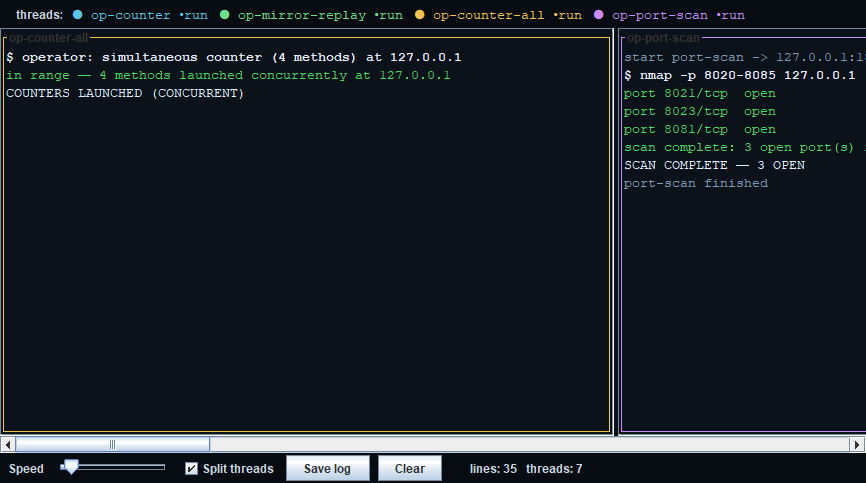
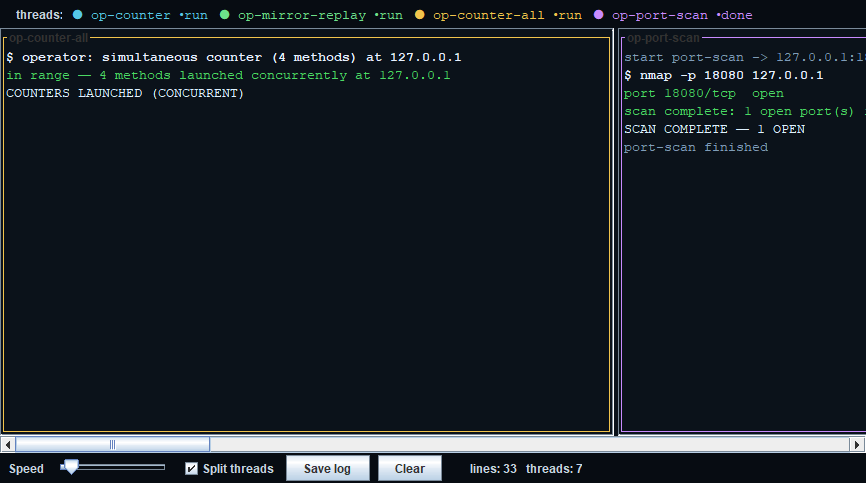
fix(specter): scans follow the configured ports (B-21)
The recon and mirror scans were hard-coded to 8020-8085. Moving any port
(the setup guide suggests it when 8080 is busy) made them miss, and on
one laptop Specter's own recon covered 8080, its own counter-watch:
"SCAN COMPLETE - 4 OPEN" and a false INCOMING COUNTER-ATTACK before any
counter was launched.

- PortScanAttack takes an explicit port list (nmap-style "-p 8021,8023,
  8081", or "a-b" for a contiguous range) and exposes ports().
- New specter.Campaigns builds the Specter campaigns from LabConfig, out
  of the Swing class; the recon (and the full campaign's scan) probes
  exactly the configured decoy ports, which on one laptop can never
  include the counter-watch port.
- MirrorCounterStrategy(counterWatchPort): counter-scans probe only the
  configured counter-watch port, the narrowest counter that reaches it;
  ConsoleMain passes config.counterWatchPort().

Tests (all 4 failed before): ScanPortsTest - default recon is
8021/8023/8081 and excludes the counter-watch; moved ports are followed;
mirror / probe / full-counter scans hit only the configured counter-watch
port; over real sockets the recon finds 3 OPEN and never connects to the
counter-watch listener. Full suite 145 green 3/3; GUI dry run 27/27, its
counter scan now reaches the dry run's :18080 counter-watch (1 OPEN).
Regenerated the three figures that show a scan (recon, concurrent,
counter split).

Changed region(s): [[0.7171, 0.1242, 0.9977, 0.4037], [0.8418, 0.0311, 0.873, 0.0621]]

diff --git a/src/test/java/com/mirage/ScanPortsTest.java b/src/test/java/com/mirage/ScanPortsTest.java
@@ -1,0 +1,101 @@
+package com.mirage;
+
+import com.mirage.common.Classification;
+import com.mirage.common.LabConfig;
+import com.mirage.common.Severity;
+import com.mirage.console.MirrorCounterStrategy;
+import com.mirage.specter.AttackStrategy;
+import com.mirage.specter.Campaign;
+import com.mirage.specter.Campaigns;
+import com.mirage.specter.PortScanAttack;
+import com.mirage.specter.Target;
+import org.junit.jupiter.api.Test;
+
+import java.io.IOException;
+import java.net.ServerSocket;
+import java.net.SocketTimeoutException;
+import java.util.ArrayList;
+import java.util.List;
+import java.util.Map;
+
+import static org.junit.jupiter.api.Assertions.*;
+
+/**
+ * B-21: the recon and mirror scans were hard-coded to 8020-8085. Moving any port (the setup
+ * guide suggests it when 8080 is busy) made the scans miss, and on one laptop Specter's own
+ * recon covered 8080, its own counter-watch: "SCAN COMPLETE — 4 OPEN" and a false
+ * "INCOMING COUNTER-ATTACK" before any counter was launched.
+ */
+class ScanPortsTest {
+
+    private static PortScanAttack scanIn(Campaign campaign) {
+        for (AttackStrategy s : campaign.strategies()) {
+            if (s instanceof PortScanAttack scan) {
+                return scan;
+            }
+        }
+        throw new AssertionError("no port scan in " + campaign.name());
+    }
+
+    @Test
+    void reconScansTheConfiguredDecoysAndNotTheLocalCounterWatch() {
+        LabConfig defaults = LabConfig.defaults();
+        List<Integer> ports = scanIn(Campaigns.recon(defaults)).ports();
+        assertEquals(List.of(8021, 8023, 8081), ports);
+        assertFalse(ports.contains(defaults.counterWatchPort()), "one laptop: never Specter's own counter-watch");
+        assertEquals(ports, scanIn(Campaigns.forChoice("Full campaign", defaults)).ports(),
+                "the full campaign scans the same ports");
+    }
+
+    @Test
+    void movedPortsAreFollowed() {
+        LabConfig moved = LabConfig.from(Map.of("decoy.http.port", "9081", "decoy.ftp.port", "9021",
+                "decoy.telnet.port", "9023", "counterwatch.port", "9080"));
+        assertEquals(List.of(9021, 9023, 9081), scanIn(Campaigns.recon(moved)).ports());
+    }
+
+    @Test
+    void mirrorScansReachTheConfiguredCounterWatchOnly() {
+        MirrorCounterStrategy mirror = new MirrorCounterStrategy(9080);
+        Campaign scanBack = mirror.counterFor(new Classification("scan", "T1046", Severity.MEDIUM)).orElseThrow();
+        assertEquals(List.of(9080), scanIn(scanBack).ports());
+        Campaign probe = mirror.counterFor(new Classification("bait", "T1485", Severity.CRITICAL)).orElseThrow();
+        assertEquals(List.of(9080), scanIn(probe).ports());
+        assertEquals(List.of(9080), scanIn(mirror.fullCounter()).ports());
+    }
+
+    /** The one-laptop layout over real sockets: 3 decoys open, the counter-watch next to them untouched. */
+    @Test
+    void oneLaptopReconFindsTheThreeDecoysAndLeavesTheCounterWatchAlone() throws Exception {
+        List<ServerSocket> decoys = new ArrayList<>();
+        try (ServerSocket counterWatch = new ServerSocket(0)) {
+            for (int i = 0; i < 3; i++) {
+                decoys.add(new ServerSocket(0));
+            }
+            LabConfig config = LabConfig.from(Map.of(
+                    "decoy.http.port", String.valueOf(decoys.get(0).getLocalPort()),
+                    "decoy.ftp.port", String.valueOf(decoys.get(1).getLocalPort()),
+                    "decoy.telnet.port", String.valueOf(decoys.get(2).getLocalPort()),
+                    "counterwatch.port", String.valueOf(counterWatch.getLocalPort())));
+            List<String> lines = new ArrayList<>();
+            scanIn(Campaigns.recon(config)).run(new Target("127.0.0.1", 0), (level, text) -> lines.add(text));
+
+            assertTrue(lines.contains("SCAN COMPLETE — 3 OPEN"), lines.toString());
+            counterWatch.setSoTimeout(200);
+            assertThrows(SocketTimeoutException.class, counterWatch::accept,
+                    "Specter's recon must not touch its own counter-watch");
+        } finally {
+            for (ServerSocket s : decoys) {
+                closeQuietly(s);
+            }
+        }
+    }
+
+    private static void closeQuietly(ServerSocket s) {
+        try {
+            s.close();
+        } catch (IOException e) {
+            // ignore
+        }
+    }
+}

diff --git a/src/main/java/com/mirage/console/MirrorCounterStrategy.java b/src/main/java/com/mirage/console/MirrorCounterStrategy.java
@@ -1,6 +1,7 @@
 package com.mirage.console;
 
 import com.mirage.common.Classification;
+import com.mirage.common.LabConfig;
 import com.mirage.specter.BruteForceAttack;
 import com.mirage.specter.Campaign;
 import com.mirage.specter.HoneytokenReplayAttack;
@@ -17,13 +18,28 @@ import java.util.Optional;
  * campaign; it never touches the network. {@link CounterOffensive} runs the chosen
  * campaign through {@link com.mirage.specter.Attacker}, which checks ScopeGuard
  * first, so a counter can never reach a host outside the lab range.
+ *
+ * <p>The counter-scans probe only the configured counter-watch port (B-21): the one port
+ * the lab knows is listening on the attacker's side, and the narrowest counter that still
+ * reaches it, whatever the ports are set to.
  */
 public final class MirrorCounterStrategy implements CounterStrategy {
+
+    private final int counterWatchPort;
+
+    /** With the default counter-watch port. */
+    public MirrorCounterStrategy() {
+        this(LabConfig.defaults().counterWatchPort());
+    }
+
+    public MirrorCounterStrategy(int counterWatchPort) {
+        this.counterWatchPort = counterWatchPort;
+    }
 
     @Override
     public Optional<Campaign> counterFor(Classification technique) {
         return Optional.of(switch (technique.attackTechnique()) {
-            case "T1046" -> new Campaign("mirror-scan", List.of(new PortScanAttack(8020, 8085)));
+            case "T1046" -> new Campaign("mirror-scan", List.of(scan()));
             case "T1110" -> new Campaign("mirror-brute", List.of(
                     new BruteForceAttack(List.of("123456", "password", "admin", "letmein", "root"))));
             case "T1110.003" -> new Campaign("mirror-spray", List.of(
@@ -31,17 +47,21 @@ public final class MirrorCounterStrategy implements CounterStrategy {
             case "T1078" -> new Campaign("mirror-replay", List.of(
                     new HoneytokenReplayAttack("svc_backup:S3cr3tBackup!")));
             // T1021 lateral movement, T1485 bait/ransomware, and anything else:
-            // no like-for-like reply, so fall back to mapping the source's own attack surface.
-            default -> new Campaign("counter-probe", List.of(new PortScanAttack(8020, 8085)));
+            // no like-for-like reply, so fall back to probing the source's counter-watch.
+            default -> new Campaign("counter-probe", List.of(scan()));
         });
     }
 
     @Override
     public Campaign fullCounter() {
         return new Campaign("full-counter", List.of(
-                new PortScanAttack(8020, 8085),
+                scan(),
                 new BruteForceAttack(List.of("123456", "password", "admin", "letmein", "root")),
                 new PasswordSprayAttack(List.of("admin", "root", "user", "test"), "Password123!"),
                 new HoneytokenReplayAttack("svc_backup:S3cr3tBackup!")));
+    }
+
+    private PortScanAttack scan() {
+        return new PortScanAttack(List.of(counterWatchPort));
     }
 }

diff --git a/src/main/java/com/mirage/specter/PortScanAttack.java b/src/main/java/com/mirage/specter/PortScanAttack.java
@@ -5,23 +5,41 @@ import com.mirage.common.trace.TraceLevel;
 import java.io.IOException;
 import java.net.InetSocketAddress;
 import java.net.Socket;
+import java.util.Collection;
+import java.util.List;
+import java.util.stream.Collectors;
+import java.util.stream.IntStream;
 
-/** Sweeps a range of ports on the target, touching whichever decoys are listening. */
+/** Probes a set of ports on the target, touching whichever decoys are listening. */
 public final class PortScanAttack implements AttackStrategy {
 
-    private final int startPort;
-    private final int endPort;
+    private final List<Integer> ports;
 
+    /** Every port from {@code startPort} to {@code endPort}, inclusive. */
     public PortScanAttack(int startPort, int endPort) {
-        this.startPort = startPort;
-        this.endPort = endPort;
+        this(IntStream.rangeClosed(startPort, endPort).boxed().toList());
+    }
+
+    /** Exactly these ports (sorted, duplicates dropped). B-21: built from the configured ports. */
+    public PortScanAttack(Collection<Integer> ports) {
+        List<Integer> sorted = ports.stream().distinct().sorted().toList();
+        if (sorted.isEmpty() || sorted.get(0) < 1 || sorted.get(sorted.size() - 1) > 65535) {
+            throw new IllegalArgumentException("ports must be 1-65535 and not empty: " + ports);
+        }
+        this.ports = sorted;
+    }
+
+    /** The ports this scan probes, in order. */
+    public List<Integer> ports() {
+        return ports;
     }
 
     @Override
     public void run(Target target, AttackTrace trace) {
-        trace.line(TraceLevel.COMMAND, "nmap -p " + startPort + "-" + endPort + " " + target.host());
+        String spec = spec();
+        trace.line(TraceLevel.COMMAND, "nmap -p " + spec + " " + target.host());
         int open = 0;
-        for (int port = startPort; port <= endPort; port++) {
+        for (int port : ports) {
             try (Socket socket = new Socket()) {
                 socket.connect(new InetSocketAddress(target.host(), port), 200);
                 open++;
@@ -31,8 +49,18 @@ public final class PortScanAttack implements AttackStrategy {
             }
         }
         trace.line(open > 0 ? TraceLevel.GOOD : TraceLevel.WARN,
-                "scan complete: " + open + " open port(s) in " + startPort + "-" + endPort);
+                "scan complete: " + open + " open port(s) in " + spec);
         trace.line(TraceLevel.BANNER, "SCAN COMPLETE — " + open + " OPEN");
+    }
+
+    /** nmap-style: {@code 8020-8085} for a contiguous range, else {@code 8021,8023,8081}. */
+    private String spec() {
+        int first = ports.get(0);
+        int last = ports.get(ports.size() - 1);
+        if (ports.size() > 2 && last - first + 1 == ports.size()) {
+            return first + "-" + last;
+        }
+        return ports.stream().map(String::valueOf).collect(Collectors.joining(","));
     }
 
     @Override

diff --git a/src/main/java/com/mirage/specter/SpecterConsole.java b/src/main/java/com/mirage/specter/SpecterConsole.java
@@ -26,7 +26,6 @@ import java.awt.FlowLayout;
 import java.awt.event.WindowAdapter;
 import java.awt.event.WindowEvent;
 import java.time.Duration;
-import java.util.List;
 
 /**
  * The red-team control panel. Pick a target in the lab range, choose a campaign,
@@ -39,11 +38,10 @@ import java.util.List;
  */
 public final class SpecterConsole extends JFrame {
 
-    private static final String[] CAMPAIGNS = {
-            "Recon scan", "Brute force", "Password spray", "Honeytoken replay", "Full campaign"
-    };
+    private static final String[] CAMPAIGNS = Campaigns.CHOICES;
 
     private final transient ScopeGuard guard;
+    private final transient LabConfig config;
     private final JTextField hostField;
     private final JTextField portField;
     private final JComboBox<String> campaignBox = new JComboBox<>(CAMPAIGNS);
@@ -58,6 +56,7 @@ public final class SpecterConsole extends JFrame {
     public SpecterConsole(ScopeGuard guard, LabConfig config) {
         super("Specter — attack simulator (lab range only)");
         this.guard = guard;
+        this.config = config;
         this.hostField = new JTextField(config.consoleHost(), 12);
         this.portField = new JTextField(Integer.toString(config.httpDecoyPort()), 6);
         buildUi();
@@ -165,20 +164,7 @@ public final class SpecterConsole extends JFrame {
     }
 
     private Campaign buildCampaign(String choice, int port) {
-        return switch (choice) {
-            case "Recon scan" -> new Campaign("recon", List.of(new PortScanAttack(8020, 8085)));
-            case "Brute force" -> new Campaign("brute", List.of(
-                    new BruteForceAttack(List.of("123456", "password", "admin", "letmein", "root"))));
-            case "Password spray" -> new Campaign("spray", List.of(
-                    new PasswordSprayAttack(List.of("admin", "root", "user", "test"), "Password123!")));
-            case "Honeytoken replay" -> new Campaign("honeytoken", List.of(
-                    new HoneytokenReplayAttack("svc_backup:S3cr3tBackup!")));
-            default -> new Campaign("full", List.of(
-                    new PortScanAttack(8020, 8085),
-                    new BruteForceAttack(List.of("123456", "password", "admin", "letmein", "root")),
-                    new PasswordSprayAttack(List.of("admin", "root", "user", "test"), "Password123!"),
-                    new HoneytokenReplayAttack("svc_backup:S3cr3tBackup!")));
-        };
+        return Campaigns.forChoice(choice, config); // scan ports come from the config (B-21)
     }
 
     private void log(String message) {

diff --git a/src/main/java/com/mirage/specter/Campaigns.java b/src/main/java/com/mirage/specter/Campaigns.java
@@ -1,0 +1,54 @@
+package com.mirage.specter;
+
+import com.mirage.common.LabConfig;
+
+import java.util.List;
+
+/**
+ * The campaigns the Specter console offers, built from the {@link LabConfig} (B-21) and kept
+ * out of the Swing class so they can be tested.
+ *
+ * <p>The recon scan probes exactly the configured decoy ports. It never includes the
+ * counter-watch port on a one-laptop demo (there, two listeners can't share a port), so
+ * Specter's own recon no longer finds and trips its own counter-watch.
+ */
+public final class Campaigns {
+
+    /** The choices in the Specter console, in menu order. */
+    public static final String[] CHOICES = {
+            "Recon scan", "Brute force", "Password spray", "Honeytoken replay", "Full campaign"
+    };
+
+    private Campaigns() {
+    }
+
+    public static Campaign forChoice(String choice, LabConfig config) {
+        return switch (choice) {
+            case "Recon scan" -> recon(config);
+            case "Brute force" -> new Campaign("brute", List.of(brute()));
+            case "Password spray" -> new Campaign("spray", List.of(spray()));
+            case "Honeytoken replay" -> new Campaign("honeytoken", List.of(replay()));
+            default -> new Campaign("full", List.of(scan(config), brute(), spray(), replay()));
+        };
+    }
+
+    public static Campaign recon(LabConfig config) {
+        return new Campaign("recon", List.of(scan(config)));
+    }
+
+    private static PortScanAttack scan(LabConfig config) {
+        return new PortScanAttack(List.of(config.httpDecoyPort(), config.ftpDecoyPort(), config.telnetDecoyPort()));
+    }
+
+    private static AttackStrategy brute() {
+        return new BruteForceAttack(List.of("123456", "password", "admin", "letmein", "root"));
+    }
+
+    private static AttackStrategy spray() {
+        return new PasswordSprayAttack(List.of("admin", "root", "user", "test"), "Password123!");
+    }
+
+    private static AttackStrategy replay() {
+        return new HoneytokenReplayAttack("svc_backup:S3cr3tBackup!");
+    }
+}

diff --git a/src/main/java/com/mirage/console/ConsoleMain.java b/src/main/java/com/mirage/console/ConsoleMain.java
@@ -102,7 +102,7 @@ public final class ConsoleMain {
         Attacker counterAttacker = new Attacker(guard, line -> System.out.println("[counter] " + line));
         counterAttacker.setTrace(trace, "op");
         CounterOffensive counter = new CounterOffensive(
-                counterAttacker, new MirrorCounterStrategy(), config.counterWatchPort());
+                counterAttacker, new MirrorCounterStrategy(config.counterWatchPort()), config.counterWatchPort());
         counter.setTrace(trace);
         List<DetectionRule> rules = List.of(
                 new PortScanRule(),

diff --git a/docs/stress-test/CHECKLIST.md b/docs/stress-test/CHECKLIST.md
@@ -23,7 +23,7 @@ are merged into one line. Fix the waves in order.
 - [x] **MEDIUM** · [B-24](B-robustness.md) — Flaky test (2/7 runs) that is also a real race: a blocked probe is sometimes reported as "connection failed" instead of "blocked". *Treat write/connect resets as DROPPED; make the test deterministic.*
 - [x] **MEDIUM** · [B-10](B-robustness.md) + [B-31](B-robustness.md) — `defender` starts its Sensor against whatever already holds the Console port, and keeps running with a "connected" Sensor that has no decoys when a decoy port is taken. *Fail the whole role if the Console or any decoy can't bind.*
 - [x] **MEDIUM** · [B-29](B-robustness.md) — No bait files are planted, so DEMO's "edit a file in `bait/`" step has nothing to edit. *Plant sample bait files at Sensor start (and fix A-05 alongside).*
-- [ ] **MEDIUM** · [B-21](B-robustness.md) — Recon and mirror scans are hard-coded to ports 8020–8085, ignoring the configured ports; on one laptop Specter's own scan trips its own counter-watch. *Derive scan ports from `LabConfig`; skip the local counter-watch port.*
+- [x] **MEDIUM** · [B-21](B-robustness.md) — Recon and mirror scans are hard-coded to ports 8020–8085, ignoring the configured ports; on one laptop Specter's own scan trips its own counter-watch. *Derive scan ports from `LabConfig`; skip the local counter-watch port.*
 
 ## Wave 2 — trust, integrity and correctness
 
